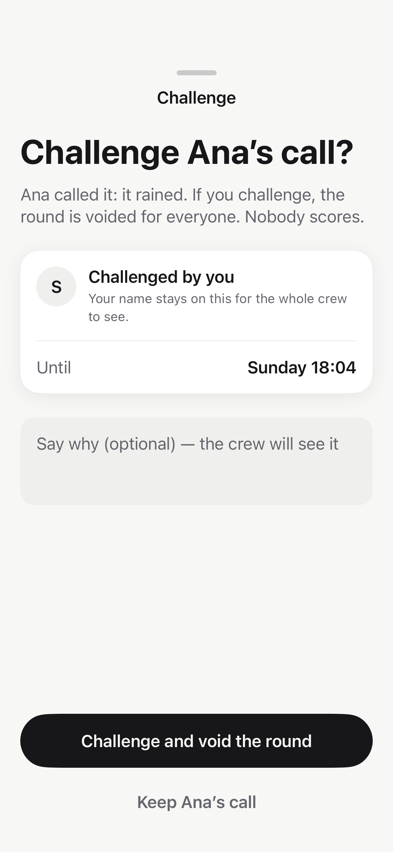
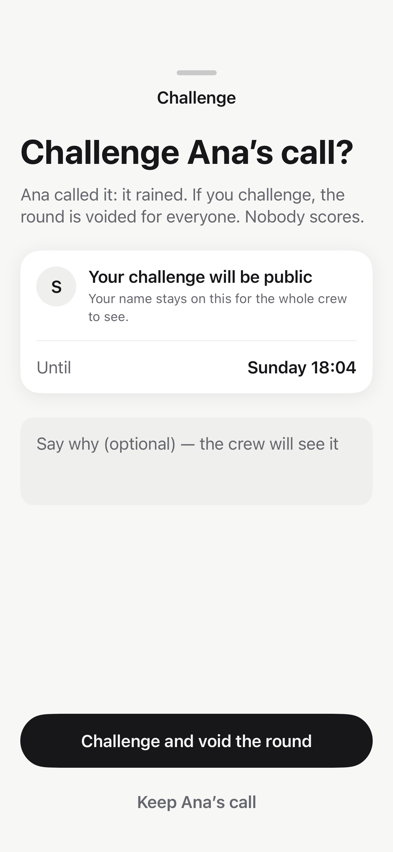
design(polish): use prospective challenge attribution

Changed region(s): [[0.2137, 0.3052, 0.7939, 0.3357]]

diff --git a/Slip/Screens/ResultScreens.swift b/Slip/Screens/ResultScreens.swift
@@ -764,7 +764,7 @@ struct ChallengeScreen: View {
                 HStack(alignment: .top, spacing: SlipSpacing.medium) {
                     InitialAvatar(name: "You")
                     VStack(alignment: .leading, spacing: SlipSpacing.tiny) {
-                        Text("Challenged by you").font(SlipFont.headline)
+                        Text("Your challenge will be public").font(SlipFont.headline)
                         Text("Your name stays on this for the whole crew to see.")
                             .font(SlipFont.footnote)
                             .foregroundStyle(SlipColor.secondary)
@@ -1050,7 +1050,7 @@ private struct LocalResultScreen: View {
                     detail: "A proved challenge voids this local round. Nobody scores. This is not a vote and there is no connected crew."
                 )
                 explanation(
-                    title: "Challenged by you",
+                    title: "Your identity will be recorded",
                     detail: "Your local player identity will be recorded in the sample’s public result. This uses the sample clock inside the challenge window."
                 )
             } else {

diff --git a/README.md b/README.md
@@ -116,7 +116,7 @@ substitute for an authenticated physical-device run.
 
 ## Design and documentation
 
-The [30 canonical v6 boards](docs/design/v6/) are losslessly compacted copies of the reviewed app snapshots, produced on 2026-09-05 after the Luma pass. They cover 24 routes plus three dark and three AX1 boards; v5 Paper boards are historical. Snapshot tests use serialized key-window rendering, 1× standard-range PNGs, light/dark, XL, AX1 and AX5. The 120 references total **11,119,989 bytes** after pixel-identical lossless compression; the comparison threshold remains **0.012**. Re-recording is explicit; see [testing](.claude/docs/testing.md).
+The [30 canonical v6 boards](docs/design/v6/) are losslessly compacted copies of the reviewed app snapshots, produced on 2026-09-05 after the Luma pass. They cover 24 routes plus three dark and three AX1 boards; v5 Paper boards are historical. Snapshot tests use serialized key-window rendering, 1× standard-range PNGs, light/dark, XL, AX1 and AX5. The 120 references total **11,125,916 bytes** after pixel-identical lossless compression; the comparison threshold remains **0.012**. Re-recording is explicit; see [testing](.claude/docs/testing.md).
 
 The [interactive explainer](docs/how-slip-works.html) distinguishes the current local build from the planned connected flow. It is an illustration, not a transaction receipt.
 
